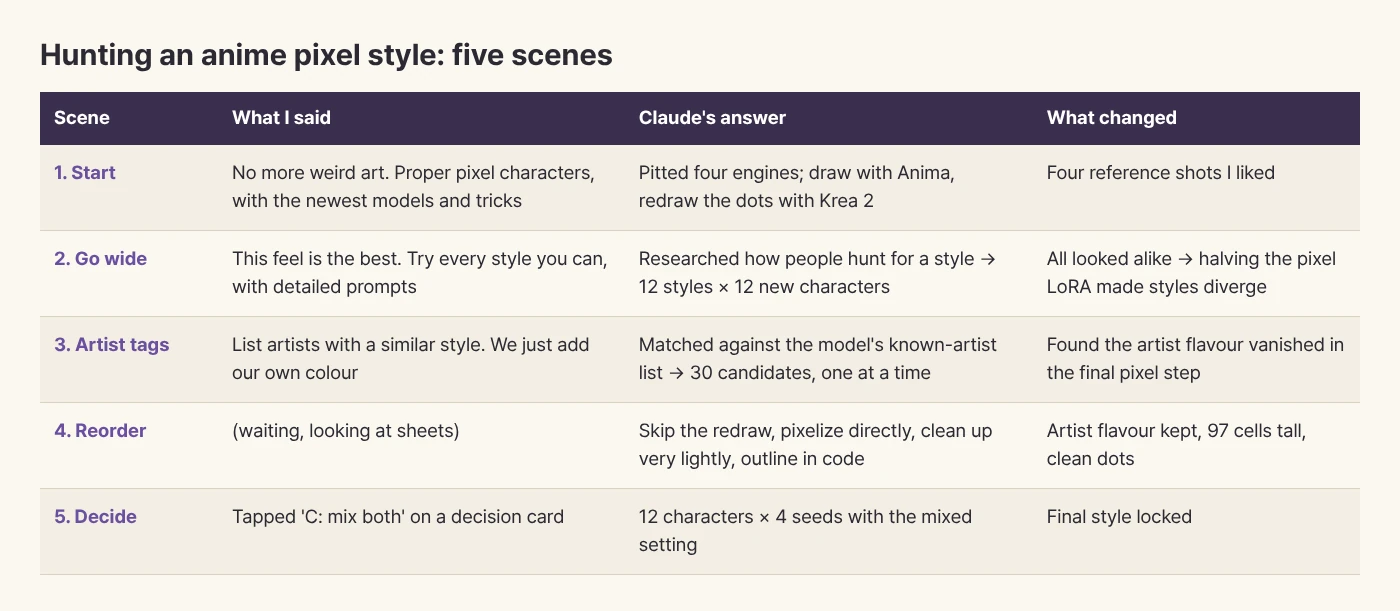
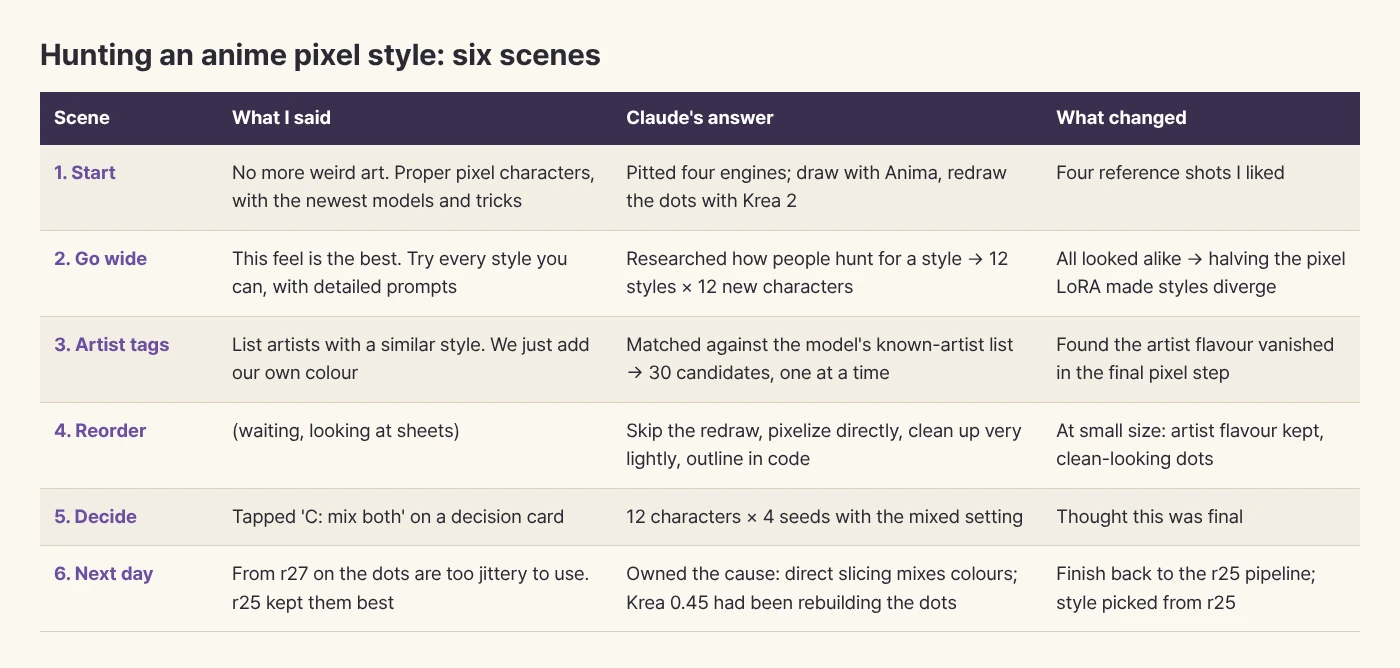
AI 실험실 3편 결론 고침(r25 공정으로 되돌림, 지글지글 비교), Anima 생성물 상업 사용 가능으로 라이선스 정정
Claude-Session: https://claude.ai/code/session_01LdZGhSsgjJjkLvYDQdAqmS

diff --git a/en/_posts/2026-10-29-pixel-style-hunt.md b/en/_posts/2026-10-29-pixel-style-hunt.md
@@ -6,12 +6,12 @@ category: ai-lab
 series: comfyui-lab
 tags: [AI art, ComfyUI, pixel art, test log, prompts]
 image: /assets/img/posts/pixel-style-hunt/cast.webp
-summary: To find an anime pixel-character style I actually liked, I generated over 600 images across 12 styles, 30 artists and several finishing orders. The answer turned out to be the order of the pipeline, not the prompt.
+summary: To find an anime pixel-character style I actually liked, I generated over 600 images across 12 styles, 30 artists and several finishing orders. After sleeping on it, the very first style comparison turned out to be the useful part.
 ---
 
 Ask an AI for pixel characters and the first few look fine. Flip through a few more and the odd ones creep in: glassy eyes, mushy dots, and a strangely Western game face. So this time I set out to find a style I genuinely liked. It had nothing to do with the current game, and it ate a whole day.
 
-<figure><img src="/assets/img/posts/pixel-style-hunt/talk-en.webp" alt="Table of five scenes, Start, Go wide, Artist tags, Reorder and Decide, with what I said, Claude's answer and what changed" loading="lazy"><figcaption>A day of back-and-forth, boiled down to five scenes.</figcaption></figure>
+<figure><img src="/assets/img/posts/pixel-style-hunt/talk-en.webp" alt="Table of five scenes, Start, Go wide, Artist tags, Reorder, Decide and Next day, with what I said, Claude's answer and what changed" loading="lazy"><figcaption>Two days of back-and-forth, boiled down to six scenes.</figcaption></figure>
 
 ## "Not these weird pictures"
 
@@ -59,12 +59,22 @@ So Claude suggested changing the finishing order. Dropping the redraw and pixeli
 
 The final pick happened on a decision card: the sharp-eyed artist, the round-faced artist, or a mix of both. Claude recommended the mix and I chose it too. Not copying one person's look also matched my original idea of adding our own colour. Here are the 12 characters, drawn again four times each.
 
-<figure><img src="/assets/img/posts/pixel-style-hunt/cast.webp" alt="Twelve characters in the same pixel style: elf archer, dwarf smith, priestess, cat thief, dark mage, dragon knight, merchant, fox shrine maiden, old wizard, princess, ninja and bard" loading="lazy"><figcaption>Twelve characters in the final style. They finally look like they live in the same town.</figcaption></figure>
+<figure><img src="/assets/img/posts/pixel-style-hunt/cast.webp" alt="Twelve characters in the same pixel style: elf archer, dwarf smith, priestess, cat thief, dark mage, dragon knight, merchant, fox shrine maiden, old wizard, princess, ninja and bard" loading="lazy"><figcaption>Twelve characters from the new pipeline. At the time I thought this was final.</figcaption></figure>
 
-One thing to be clear about: the base model, Anima, has a non-commercial licence, so these images can't be sold as they are. Krea 2 can be used commercially while yearly revenue is under $1M. The next step is to train our own style LoRA on 20 to 30 favourites from this batch. The artist names were only a compass; the final style will be ours.
+## "The dots got way too jittery"
+
+Next morning I zoomed into the results one by one and said: **everything from r27 on has dots so jittery they're unusable; r25 kept the dots best.** I also summed up the artist-tag tests as useful only up to r25, not much use from r26 on.
+
+Claude owned the cause right away. Anima's drawings aren't pixel art to begin with, so slicing them straight into cells mixes colours inside each cell and leaves jittery specks. The strong Krea redraw erased the artist flavour, but it also rebuilt a clean pixel structure. **Chasing the artist flavour had cost us the dot quality.** It looked fine small, but at in-game size it showed immediately.
+
+<figure><img src="/assets/img/posts/pixel-style-hunt/jitter.webp" alt="Two zoomed princesses. The left has even colours per cell and smooth outlines; the right has mixed-colour specks jittering in the hair and skirt" loading="lazy"><figcaption>Left: the r25 pipeline. Right: the new one. Zoom in and the right one's hair and skirt jitter.</figcaption></figure>
+
+So the finish is locked back to the r25 pipeline (Krea 2 redraw at 0.45), and the style will be picked from the r25 branches. The artist tests and the new pipeline went into the drawer as a record of what not to do.
+
+A word on licences. The Anima model itself is under a non-commercial licence, but its terms say generated images may be used for any purpose, commercial included. What's off-limits is running the model inside a revenue-generating service. Krea 2 can be used commercially while yearly revenue is under $1M. Next up: pick one r25 style and feed that image as a reference to draw the same character in several poses.
 
 ## Three-line summary
 
 1. If style words aren't landing, check whether another LoRA is overpowering them and lower it before writing more prompt.
-2. In a multi-step pipeline, look at the image after every step. A later step may be erasing what an earlier one added.
+2. In a multi-step pipeline, look at the image after every step, and make the final call zoomed to the size you'll actually use.
 3. When the AI says it won't do something and the reason doesn't convince you, push back with your evidence. One line is enough to change direction.

diff --git a/shelf.md b/shelf.md
@@ -39,7 +39,7 @@ AI와 일하다 보면 "오, 이거 대박인데?" 싶은 기술이 하루에도
 
 - **무엇:** 애니메이션풍에 강한 2B 크기의 그림 모델입니다. SDXL과 구조가 달라서 SDXL용 픽셀 체크포인트나 LoRA는 섞을 수 없고, Civitai에 올라온 Anima 전용 LoRA를 씁니다. 시험에는 RPG 사이드뷰 전투 동작 시트(svactors), 픽셀 스프라이트 화풍(Elin), RPG 걷기 시트(rpgchara)를 받았습니다.
 - **쓸 만한 자리:** 한 캐릭터의 여러 동작을 한 장의 시트로 뽑을 때요. 한 그림 안에서 그리니 프레임끼리 얼굴·옷·색·픽셀 크기가 거의 흔들리지 않습니다.
-- **라이선스:** 모델은 CircleStone Labs 비상업 라이선스입니다. LoRA들도 그림 판매가 막혀 있거나 조건이 붙어 있어 시험용으로만 씁니다.
+- **라이선스:** 모델은 CircleStone Labs 비상업 라이선스지만, 만든 그림은 상업적으로 써도 됩니다(약관 2(e)). 모델을 돈 버는 서비스 안에서 돌리거나 상업용 모델 학습에 쓰는 것은 막혀 있습니다. LoRA들은 그림 판매가 막혀 있거나 조건이 붙어 있어 시험용으로만 씁니다.
 - **사양:** 12GB에서 2048×1360 시트 한 장에 약 55초(프레임당 1초쯤).
 - **상태:** 시험함 (2026-10-28)
 - **한 줄 판단:** 일관성은 최고인데 동작이 작습니다. 걷기는 제자리 숨쉬기에 가깝고 공격도 팔 내밀기 정도라, 큰 동작은 아래 참조 어댑터로 따로 뽑는 게 가장 좋았습니다.
@@ -48,7 +48,7 @@ AI와 일하다 보면 "오, 이거 대박인데?" 싶은 기술이 하루에도
 
 - **무엇:** 참조 그림 한 장으로 캐릭터의 머리·눈·옷을 유지한 채 자세와 배경은 글로 바꾸게 해 주는 ComfyUI 노드와 작은 LoRA(92MB)입니다. 캐릭터 이름이나 외모 꼬리표가 없어도 되니 직접 만든 캐릭터에도 쓸 수 있습니다.
 - **쓸 만한 자리:** 한 장 시트로 캐릭터를 정한 뒤, 그 한 칸을 참조로 넣어 걷기·휘두르기 같은 큰 동작을 같은 얼굴로 뽑을 때요.
-- **라이선스:** 노드 코드는 Apache-2.0, 어댑터 가중치는 CircleStone 비상업 라이선스입니다.
+- **라이선스:** 노드 코드는 Apache-2.0, 어댑터 가중치는 CircleStone 비상업 라이선스입니다. Anima와 같이 만든 그림은 상업적으로 써도 됩니다.
 - **사양:** Anima base v1.0과 bf16 전용(fp16은 넘침), Euler 30걸음, cfg 4.5, ref_guidance 5. 12GB에서 프레임당 약 55초, 그래픽 메모리 최대 약 8.5GB.
 - **상태:** 시험함 (2026-10-28)
 - **한 줄 판단:** 지금까지 본 방법 중 일관성과 큰 동작을 함께 얻은 유일한 길입니다. 다만 대부분 왼쪽을 보고(좌우 뒤집기로 해결), 발밑에 바닥 선을 그리고, 작은 무늬와 들고 있는 물건 모양이 프레임마다 조금씩 바뀝니다. 시험 이야기는 [같은 얼굴로 걷고 휘두르게](/2026/10/28/anima-motion/)에 있습니다.
@@ -56,7 +56,7 @@ AI와 일하다 보면 "오, 이거 대박인데?" 싶은 기술이 하루에도
 ### [Krea 2 Turbo](https://huggingface.co/krea/Krea-2-Turbo) + [픽셀 LoRA](https://huggingface.co/e-n-v-y/Krea-2-Pixel-Art)
 
 - **무엇:** 2026년에 나온 그림 모델의 8걸음 판과, 그 위에 얹는 픽셀 아트 LoRA입니다. LoRA가 128칸 격자로 그리게 해서 도트가 아주 고르게 나옵니다.
-- **쓸 만한 자리:** 다른 모델로 그린 그림의 도트를 정리할 때요. 다만 세게(0.45) 걸면 앞 단계의 화풍까지 지워서, 바로 도트로 바꾼 그림을 0.20으로 살짝 다듬는 데 쓰는 게 가장 좋았습니다.
+- **쓸 만한 자리:** 다른 모델로 그린 그림의 도트를 정리할 때요. 0.45로 다시 그리면 도트가 가장 깨끗합니다. 앞 단계에서 넣은 화가 느낌은 지워지지만, 약하게(0.20~0.30) 걸거나 빼면 도트가 지글지글해져서 실제로는 쓰기 어려웠습니다.
 - **라이선스:** 모델은 Krea 2 커뮤니티 라이선스(회사 연 매출 100만 달러 미만이면 상업 사용 가능), 픽셀 LoRA는 MIT.
 - **사양:** fp8 판 13.1GB, 1024² 한 장에 약 13초, 그래픽 메모리 최대 약 11.2GB. "full body"만 쓰면 발이 잘려서 "머리부터 발끝까지, 여백을 두고"를 꼭 붙입니다.
 - **상태:** 시험함 (2026-10-28)

diff --git a/en/shelf.md b/en/shelf.md
@@ -39,7 +39,7 @@ Things I ran myself in ComfyUI on my PC (12GB of video memory). The test stories
 
 - **What:** A 2B image model that is strong at anime styles. Its structure differs from SDXL, so SDXL pixel checkpoints and LoRAs can't be mixed in; you use Anima-specific LoRAs from Civitai. For the test I grabbed an RPG side-view battle sheet LoRA (svactors), a pixel sprite style (Elin) and an RPG walk sheet (rpgchara).
 - **Where it fits:** Getting many motions of one character as a single sheet. Because it's all drawn in one image, face, clothes, colors and pixel size barely drift between frames.
-- **License:** The model is under the CircleStone Labs Non-Commercial License. The LoRAs also block or restrict selling images, so test use only.
+- **License:** The model is under the CircleStone Labs Non-Commercial License, but generated images may be used commercially (section 2(e)). Running the model inside a revenue-generating service or using it to train models commercially is not allowed. The LoRAs block or restrict selling images, so test use only.
 - **Specs:** About 55 seconds for one 2048×1360 sheet on 12GB (roughly 1 second per frame).
 - **Status:** Tested (2026-10-28)
 - **Verdict:** Best consistency, small motions. The walk is closer to breathing in place and the attack is just an arm thrust, so big motions came out best with the reference adapter below.
@@ -48,7 +48,7 @@ Things I ran myself in ComfyUI on my PC (12GB of video memory). The test stories
 
 - **What:** ComfyUI nodes plus a small LoRA (92MB) that keep a character's hair, eyes and outfit from one reference image while the prompt changes pose and background. No character name or appearance tags needed, so it works for original characters.
 - **Where it fits:** After settling a character with a one-image sheet, feed one cell in as the reference to get big motions like walking or swinging with the same face.
-- **License:** Node code Apache-2.0; adapter weights under the CircleStone Non-Commercial License.
+- **License:** Node code Apache-2.0; adapter weights under the CircleStone Non-Commercial License. As with Anima, generated images may be used commercially.
 - **Specs:** Anima base v1.0 and bf16 only (fp16 overflows), Euler 30 steps, cfg 4.5, ref_guidance 5. About 55 seconds per frame on 12GB, peak video memory about 8.5GB.
 - **Status:** Tested (2026-10-28)
 - **Verdict:** The only route so far that gave both consistency and big motion. It mostly faces left (flip to fix), draws a ground line under the feet, and small patterns and held props shift a little per frame. The test story is in [Same Face, Walking and Swinging](/en/2026/10/28/anima-motion/).
@@ -56,7 +56,7 @@ Things I ran myself in ComfyUI on my PC (12GB of video memory). The test stories
 ### [Krea 2 Turbo](https://huggingface.co/krea/Krea-2-Turbo) + [pixel LoRA](https://huggingface.co/e-n-v-y/Krea-2-Pixel-Art)
 
 - **What:** The 8-step version of a 2026 image model, plus a pixel-art LoRA on top. The LoRA draws on a 128-cell grid, so the dots come out very even.
-- **Where it helps:** Cleaning up the dots of an image drawn by another model. Applied strongly (0.45) it also wipes out the earlier style, so it worked best as a light 0.20 tidy-up after pixelizing directly.
+- **Where it helps:** Cleaning up the dots of an image drawn by another model. A 0.45 redraw gives the cleanest dots. It erases artist flavour added earlier, but going lighter (0.20–0.30) or skipping it left the dots jittery and unusable in practice.
 - **Licence:** Model under the Krea 2 Community License (commercial use allowed for companies under $1M yearly revenue); pixel LoRA under MIT.
 - **Specs:** fp8 build 13.1GB, about 13 seconds per 1024² image, peak VRAM about 11.2GB. "full body" alone crops the feet, so always add "head to toe, with margin".
 - **Status:** Tested (2026-10-28)

diff --git a/en/_posts/2026-10-28-anima-motion.md b/en/_posts/2026-10-28-anima-motion.md
@@ -59,7 +59,7 @@ Here are the three routes side by side.
 2. Base image + edit: big motion but wobbling direction and size, about 31 seconds per frame.
 3. Base image + reference adapter: both consistency and big motion, about 55 seconds per frame.
 
-The best combo was **settling the character with a one-image sheet, then feeding one of its cells to the reference adapter for big motions**. Anima, the adapter and the sprite LoRAs are all non-commercial, though, so they can't go straight into a game I sell. I'm filing this away as a proven possibility and will pull it out again when a commercial route opens up.
+The best combo was **settling the character with a one-image sheet, then feeding one of its cells to the reference adapter for big motions**. Anima and the adapter are non-commercial models, but their images may be used commercially. Some of the sprite LoRAs I used forbid selling images, though, so this can't go straight into a game I sell. I'm filing this away as a proven possibility and will pull it out again when a commercial route opens up.
 
 ## Three-line summary
 
